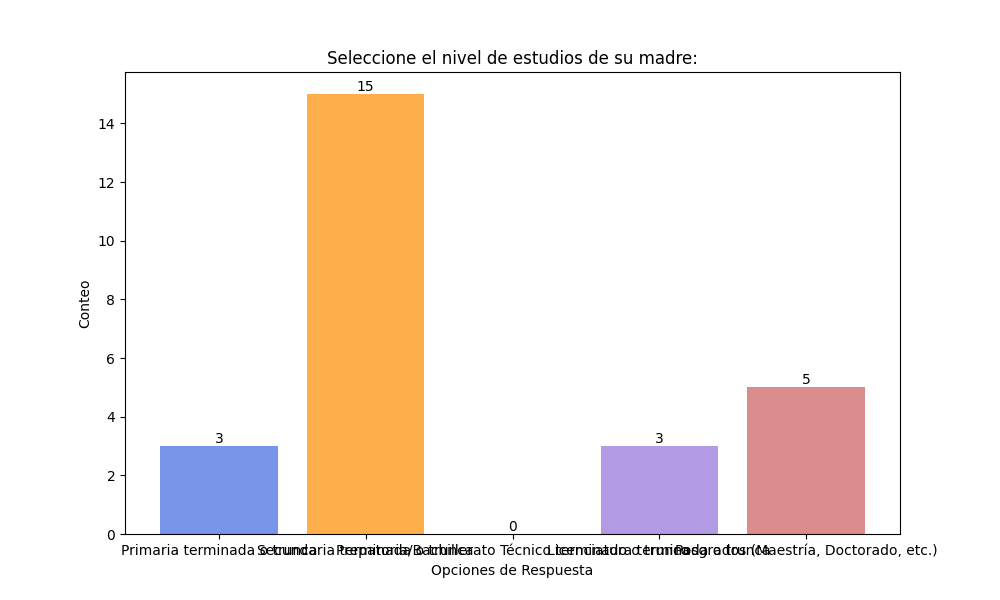
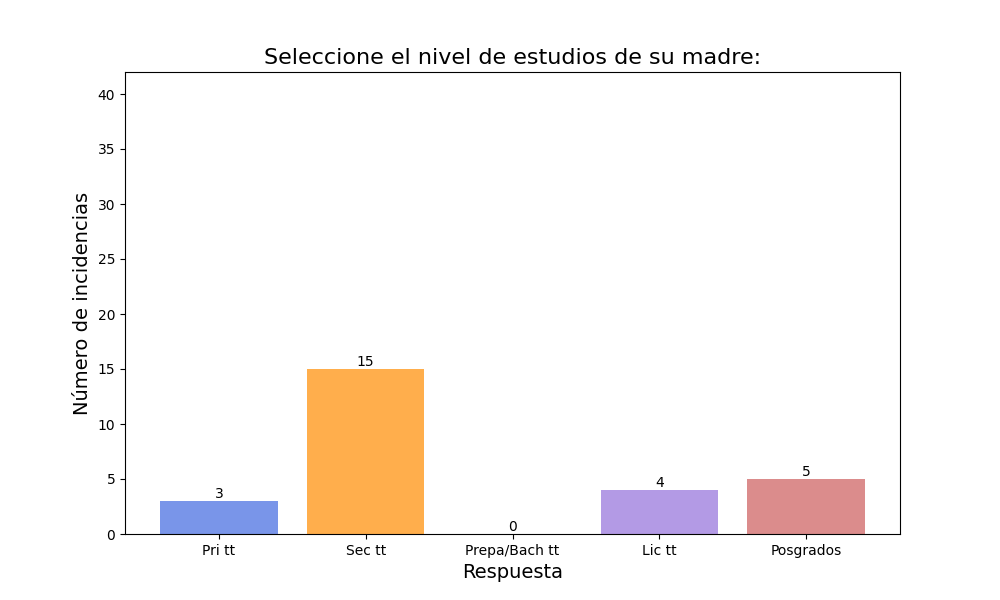
REFACTOR: formato correcto para histogramas e histogramas demograficos

diff --git a/scripts/plots.py b/scripts/plots.py
@@ -6,7 +6,7 @@ plt.rcParams.update({"figure.facecolor": (1, 1, 1, 0)})
 
 
 # TODO alternativa de despliegue de opciones muy largas como anidado en leyenda
-def histogram(df, columna_csv, opciones):
+def histograma(df, columna_csv, opciones):
     colores = ["royalblue", "darkorange", "limegreen", "mediumpurple", "indianred"]
     nombre_archivo = f"histograma_preguntacolumna{columna_csv}"
     nombre_pregunta = df.columns.tolist()
@@ -20,10 +20,19 @@ def histogram(df, columna_csv, opciones):
 
     # * Parametros para graficos
     fig, axes = plt.subplots(figsize=(10, 6))
-    bars = axes.bar(conteo.index, conteo.values, alpha=0.7, color=colores)
-    axes.set_xlabel("Opciones de Respuesta")
-    axes.set_ylabel("Conteo")
-    axes.set_title(f"{nombre_pregunta[columna_csv-1]}")
+
+        # * para abreviar las etiquetas de la pregunta 5 y 6...
+    if (columna_csv == 5 or columna_csv == 6):
+        abreviaciones = ['Pri tt', 'Sec tt', 'Prepa/Bach tt', 'Lic tt', 'Posgrados']
+        bars = axes.bar(abreviaciones, conteo.values, alpha=0.7, color=colores)
+    else: 
+        bars = axes.bar(conteo.index, conteo.values, alpha=0.7, color=colores)
+
+    axes.set_xlabel("Respuesta", fontsize=14)
+    axes.set_ylabel("Número de incidencias", fontsize=14)
+    axes.set_title(f"{nombre_pregunta[columna_csv-1]}", fontsize=16)
+    axes.set_ylim(0, 42) # * Limite de escala
+    axes.yaxis.set_major_locator(plt.MaxNLocator(integer=True)) # * Forzar la escala vertical a números enteros
 
     # * Agregar números en las barras
     for bar, count in zip(bars, conteo):
@@ -38,11 +47,8 @@ def histogram(df, columna_csv, opciones):
     plt.savefig(f"../results/plots/{nombre_archivo}")
     print(f"GRAFICA {nombre_archivo} realizada con éxito!")
 
-
-def main():
-    CSV_FILE = "../csv/EncuestaPreliminar.csv"
-    df_csv = pandas.read_csv(CSV_FILE)
-
+def getHistogramaDatosDemograficos(df_csv):
+    # * el orden de preguntas es en relación con el orden provisto en el Google Sheets
     opciones_pregunta3 = ["17", "18", "19", "20", "21 o más"]
     opciones_pregunta4 = [
         "Clase Alta",
@@ -51,24 +57,35 @@ def main():
         "Clase Media Baja",
         "Clase Baja",
     ]
-    opciones_pregunta5 = [
+    opciones_pregunta56 = [ # * pregunta 5 Y 6
         "Primaria terminada o trunca",
         "Secundaria terminada o trunca",
         "Prepatoria/Bachillerato Técnico terminado o trunco",
         "Licenciatura terminada o trunca",
         "Posgrados (Maestría, Doctorado, etc.)",
     ]
-    opciones_pregunta6 = opciones_pregunta5
     opciones_pregunta7 = ["Sí", "No"]
-    opciones_pregunta29 = ["Mujer", "Hombre", "No-binary", "Prefiero no decir"]
+    opciones_pregunta27 = ["Mujer", "Hombre", "No binario", "Prefiero no decir"]
 
-    histogram(df_csv, 3, opciones_pregunta3)
-    histogram(df_csv, 4, opciones_pregunta4)
-    histogram(df_csv, 5, opciones_pregunta5)
-    histogram(df_csv, 6, opciones_pregunta6)
-    histogram(df_csv, 7, opciones_pregunta7)
-    histogram(df_csv, 29, opciones_pregunta29)
+    print("INICIO Histogramas de los Datos Demograficos")
+    histograma(df_csv, 3, opciones_pregunta3)
+    histograma(df_csv, 4, opciones_pregunta4)
+    histograma(df_csv, 5, opciones_pregunta56)
+    histograma(df_csv, 6, opciones_pregunta56)
+    histograma(df_csv, 7, opciones_pregunta7)
+    histograma(df_csv, 27, opciones_pregunta27)
+    print("FIN Histogramas de los Datos Demograficos\n")
 
+def getHistogramaDiagnosticoAprendizajeQuimica(df_csv):
+    print("INICIO Histogramas del diagnóstico respecto al aprendizaje de Química")
+    print("FIN Histogramas del diagnóstico respecto al aprendizaje de Química")
+
+def main():
+    CSV_FILE = "../csv/EncuestaPreliminar.csv"
+    df_csv = pandas.read_csv(CSV_FILE)
+
+    getHistogramaDatosDemograficos(df_csv)
+    getHistogramaDiagnosticoAprendizajeQuimica(df_csv)
 
 if __name__ == "__main__":
     main()

diff --git a/scripts/exploration.py b/scripts/exploration.py
@@ -4,6 +4,7 @@ import numpy
 
 def exploration(csv_file):
     df = pandas.read_csv(csv_file)
+    print(df)
 
     # * Obtener las dimensiones de los datos (filas x columnas)
     filas, columnas = df.shape
@@ -20,15 +21,15 @@ def exploration(csv_file):
         print(f"•{idx+1}: {nombre}")
 
     # * Prueba de acceso de nombre_columnas por medio de indices
-    print(nombres_columnas[3])
+    #print(nombres_columnas[3])
 
     # * prueba de tipo de datos desplegados
-    datos = df.iloc[:, 3]
-    datos = datos.value_counts()
-    datos = datos.values
+    #datos = df.iloc[:, 3]
+    #datos = datos.value_counts()
+    #datos = datos.values
 
-    print(datos)
-    print(numpy.array(datos.tolist()))
+    #print(datos)
+    #print(numpy.array(datos.tolist()))
 
 
 def main():
